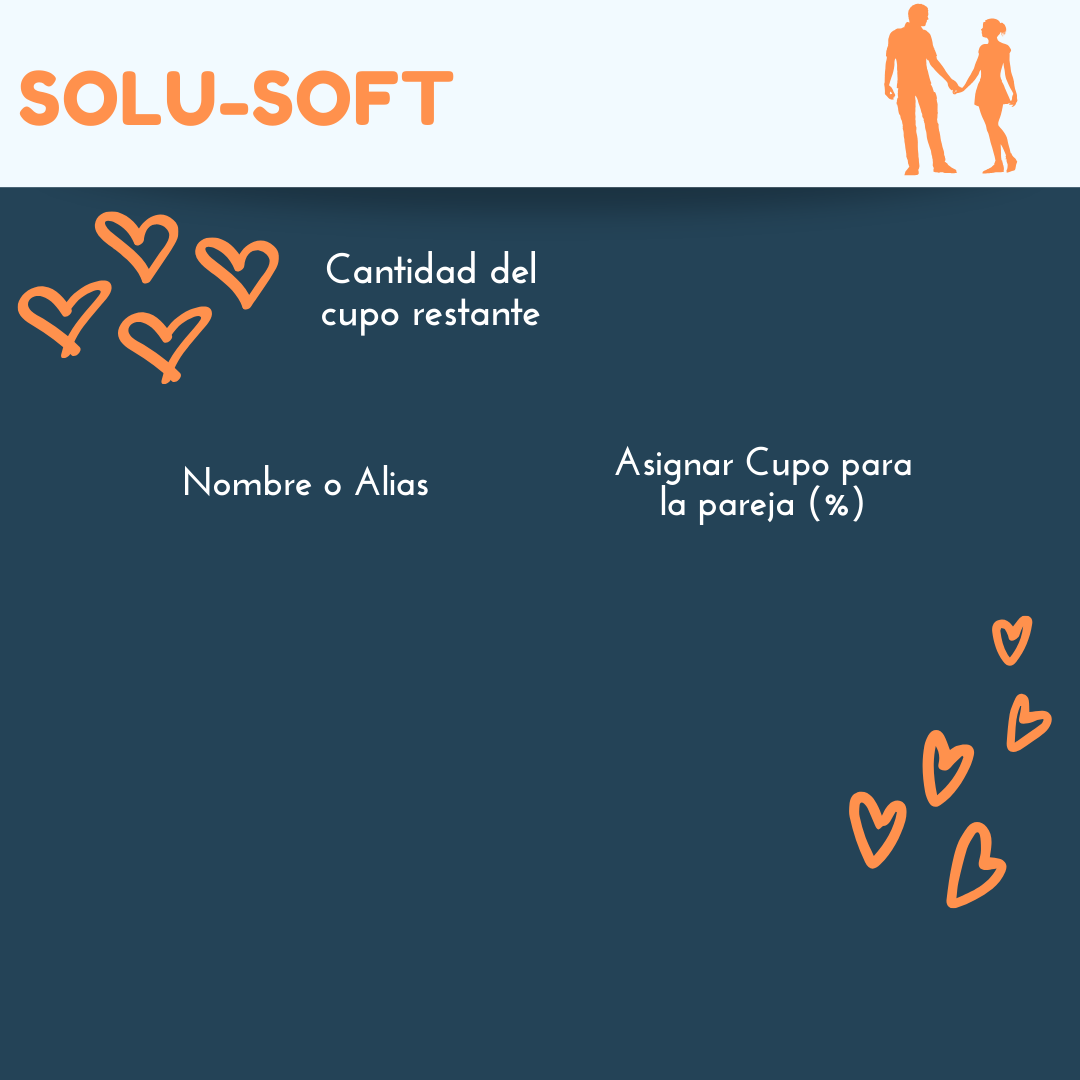
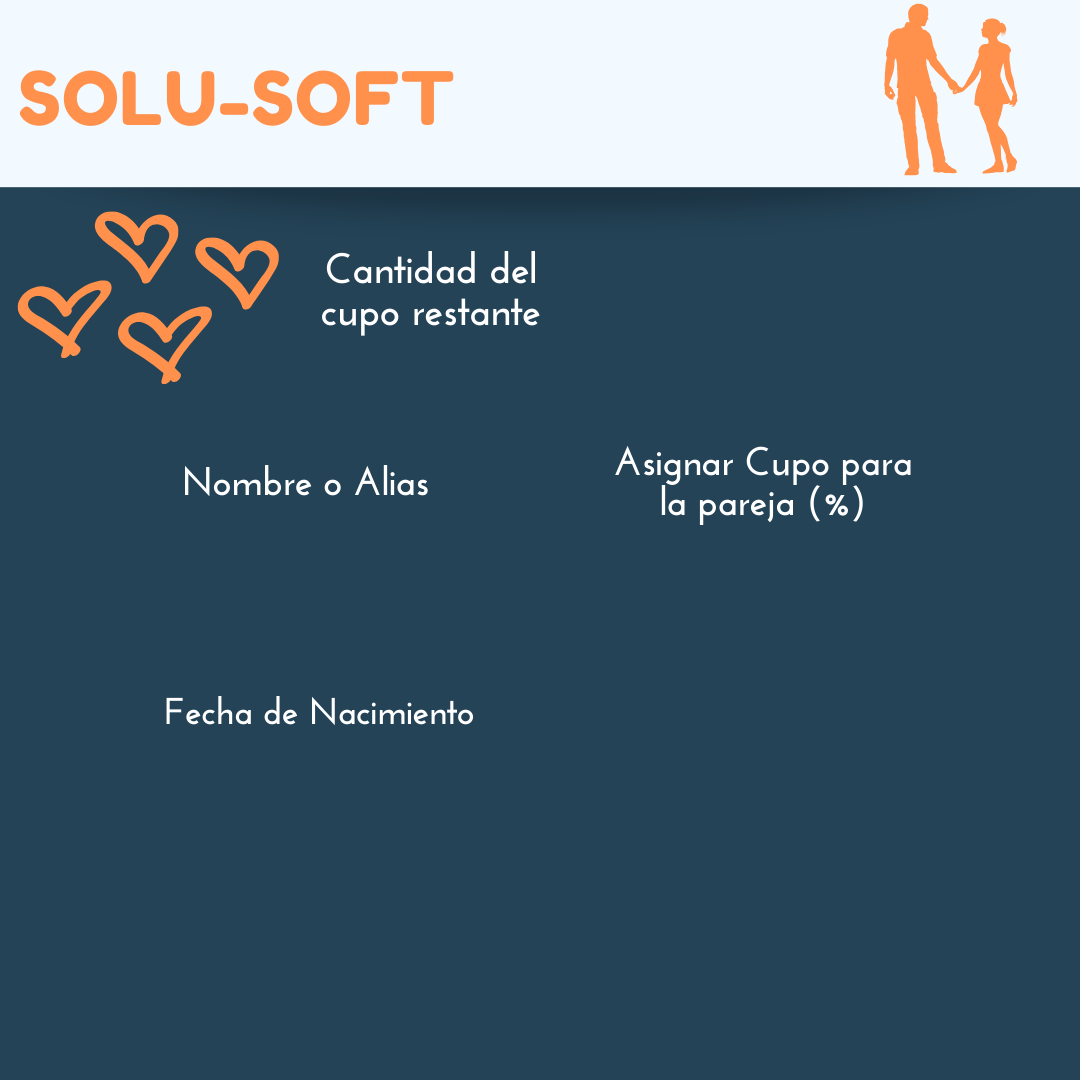
Ya funciona la edad de la pareja y se guarda la fecha de nacimiento

diff --git a/src/co/edu/unbosque/view/PanelAgregarPareja.java b/src/co/edu/unbosque/view/PanelAgregarPareja.java
@@ -5,6 +5,9 @@ import java.awt.Dimension;
 import java.awt.Font;
 import java.awt.Graphics;
 import java.awt.Image;
+import java.util.Calendar;
+import java.util.Date;
+import java.util.GregorianCalendar;
 
 import javax.swing.Icon;
 import javax.swing.ImageIcon;
@@ -12,6 +15,8 @@ import javax.swing.JButton;
 import javax.swing.JLabel;
 import javax.swing.JPanel;
 import javax.swing.JTextField;
+
+import com.toedter.calendar.JDateChooser;
 
 public class PanelAgregarPareja extends JPanel {
 
@@ -23,6 +28,7 @@ public class PanelAgregarPareja extends JPanel {
 	private JButton boton_agregar_nueva_pareja, boton_regresar;
 	private Icon icono_boton, icono_boton_regresar;
 	private JLabel label_cupo_restante;
+	private JDateChooser calendario;
 
 	public PanelAgregarPareja(String nombre) {
 		this.nombre = nombre;
@@ -43,15 +49,15 @@ public class PanelAgregarPareja extends JPanel {
 	public void inicializarComponentes() {
 
 		campo_texto_nombre = new JTextField();
-		campo_texto_nombre.setBounds(130, 320, 200, 30);
+		campo_texto_nombre.setBounds(130, 300, 200, 30);
 		add(campo_texto_nombre);
 
 		campo_texto_cupo = new JTextField();
-		campo_texto_cupo.setBounds(460, 320, 200, 30);
+		campo_texto_cupo.setBounds(460, 300, 200, 30);
 		add(campo_texto_cupo);
 
 		boton_agregar_nueva_pareja = new JButton();
-		boton_agregar_nueva_pareja.setBounds(320, 420, 150, 30);
+		boton_agregar_nueva_pareja.setBounds(600, 480, 150, 30);
 		add(boton_agregar_nueva_pareja);
 
 		imagen_boton = new ImageIcon(
@@ -75,6 +81,16 @@ public class PanelAgregarPareja extends JPanel {
 		label_cupo_restante.setFont(new Font("Accidental Presidency", Font.BOLD, 40));
 		label_cupo_restante.setBounds(410, 125, 500, 50);
 		add(label_cupo_restante);
+
+		calendario = new JDateChooser("dd-MM-yyyy", "####-##-##", '_');
+		calendario.setBounds(130, 410, 200, 30);
+		calendario.setOpaque(true);
+		calendario.setBackground(Color.WHITE);
+		calendario.setMaxSelectableDate(new Date());
+		calendario.setDateFormatString("dd-MM-yyyy");
+		Calendar fecha = new GregorianCalendar();
+		calendario.setCalendar(fecha);
+		add(calendario);
 	}
 
 	public String getNombre() {
@@ -167,6 +183,14 @@ public class PanelAgregarPareja extends JPanel {
 
 	public void setLabel_cupo_restante(JLabel label_cupo_restante) {
 		this.label_cupo_restante = label_cupo_restante;
+	}
+
+	public JDateChooser getCalendario() {
+		return calendario;
+	}
+
+	public void setCalendario(JDateChooser calendario) {
+		this.calendario = calendario;
 	}
 
 }

diff --git a/src/co/edu/unbosque/model/Parejas.java b/src/co/edu/unbosque/model/Parejas.java
@@ -6,71 +6,70 @@ import java.util.ArrayList;
 public class Parejas<Horarios> implements Serializable {
 
 	private static final long serialVersionUID = 1L;
-	
+
 	private String nombre;
 	private int cupo;
 	private double cantidad_cupo;
+	private String fecha_nacimiento;
 	private ArrayList<Horarios> lista_horarios;
 
-
-	public Parejas(String nombre, int cupo, double cantidad_cupo,
+	public Parejas(String nombre, int cupo, double cantidad_cupo, String fecha_nacimiento,
 			ArrayList<Horarios> lista_horarios) {
 		this.nombre = nombre;
 		this.cupo = cupo;
 		this.cantidad_cupo = cantidad_cupo;
 		this.lista_horarios = lista_horarios;
+		this.fecha_nacimiento = fecha_nacimiento;
 	}
-
 
 	public String getNombre() {
 		return nombre;
 	}
 
-
 	public void setNombre(String nombre) {
 		this.nombre = nombre;
 	}
-
 
 	public int getCupo() {
 		return cupo;
 	}
 
-
 	public void setCupo(int cupo) {
 		this.cupo = cupo;
 	}
-
 
 	public double getCantidad_cupo() {
 		return cantidad_cupo;
 	}
 
-
 	public void setCantidad_cupo(double cantidad_cupo) {
 		this.cantidad_cupo = cantidad_cupo;
 	}
-
 
 	public ArrayList<Horarios> getLista_horarios() {
 		return lista_horarios;
 	}
 
-
 	public void setLista_horarios(ArrayList<Horarios> lista_horarios) {
 		this.lista_horarios = lista_horarios;
 	}
-
 
 	public static long getSerialversionuid() {
 		return serialVersionUID;
 	}
 
+	public String getFecha_nacimiento() {
+		return fecha_nacimiento;
+	}
+
+	public void setFecha_nacimiento(String fecha_nacimiento) {
+		this.fecha_nacimiento = fecha_nacimiento;
+	}
 
 	@Override
 	public String toString() {
-		return "Nombre= " + nombre + " Cupo= " + cupo + " Cantidad de cupo= " + cantidad_cupo + " Lista  de compras= "
-				+ lista_horarios;
+		return "Parejas [nombre=" + nombre + ", cupo=" + cupo + ", cantidad_cupo=" + cantidad_cupo
+				+ ", fecha_nacimiento=" + fecha_nacimiento + ", lista_horarios=" + lista_horarios + "]";
 	}
 
 }

diff --git a/src/co/edu/unbosque/view/Ventana.java b/src/co/edu/unbosque/view/Ventana.java
@@ -72,7 +72,7 @@ public class Ventana extends JFrame {
 			JOptionPane.showMessageDialog(null, "ES NECESARIO PRIMERO ASINGAR UN VALOR AL CUPO");
 		} else if (mensaje.equalsIgnoreCase("EDAD_FALSE")) {
 			JOptionPane.showMessageDialog(null,
-					"DE LA FECHA DE NACIMIENTO INGRESADA SE MUESTRA QUE NO ES MAYOR DE EDAD");
+					"DE LA FECHA DE NACIMIENTO INGRESADA MUESTRA QUE SU PAREJA NO ES MAYOR DE EDAD");
 		}
 
 	}
